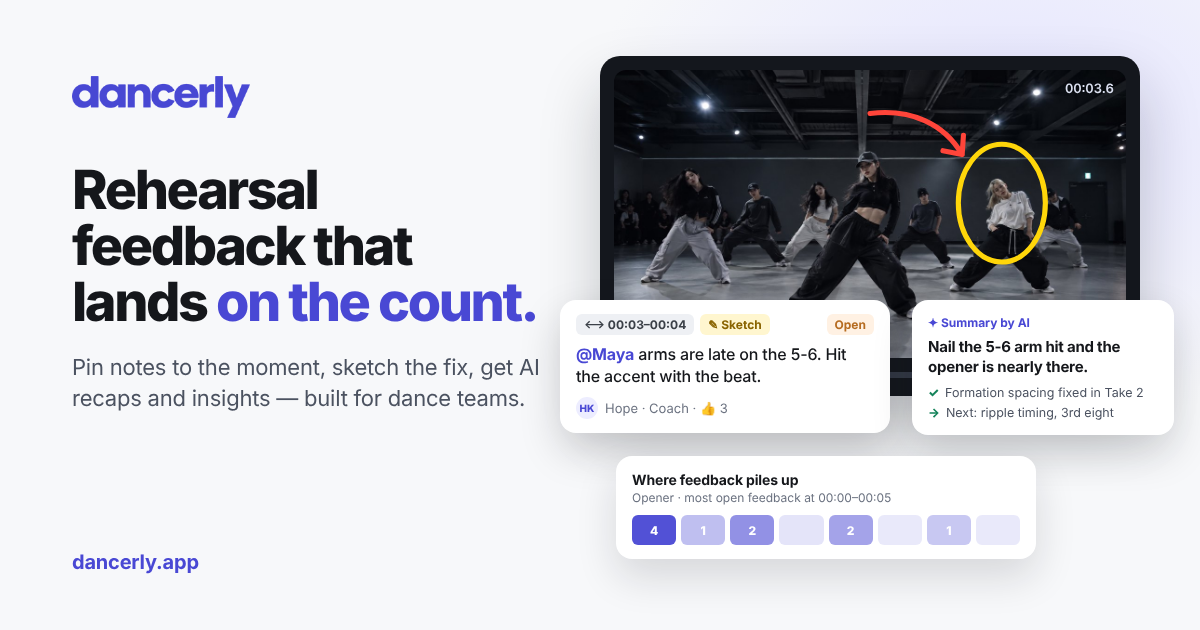
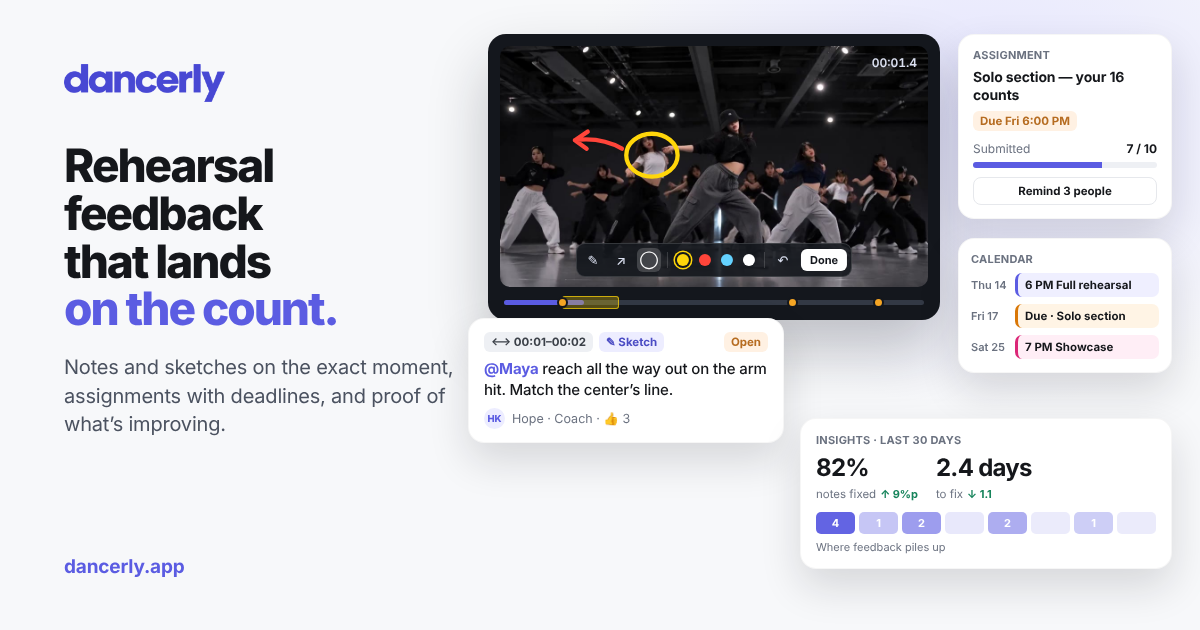
New link preview image
Rebuilt from the landing page's own pieces: the hero frame with its
sketch and the sketch toolbar, an @mention note, a video assignment with
a deadline and submissions, the calendar, and Insights. The image URL
carries ?v=2 so apps that cached the old preview fetch the new one.

Claude-Session: https://claude.ai/code/session_015xyiRtX2p9kfWQE4EdsAKz

diff --git a/tools/og/og.html b/tools/og/og.html
@@ -1,92 +1,133 @@
 <!doctype html>
-<!-- Link preview image (Open Graph, 1200×630). Render with: node tools/og/render.cjs -->
+<!-- Link preview image (Open Graph, 1200×630). Render with: node tools/og/render.cjs
+     The same pieces as the landing page: a frame with a sketch and the sketch toolbar, a note with an @mention,
+     a video assignment with a deadline, the calendar, and Insights. The frame is the hero clip at 00:01.4. -->
 <html lang="en">
 <head>
 <meta charset="utf-8" />
 <style>
-  :root { --ink: #15171b; --muted: #6b7280; --accent: #4948d4; --accent-soft: #ededff; --line: #e6e8ec; --dark: #14171d; --dark-2: #1d222a; --ok: #16845b; --warn: #b66c21; }
+  :root { --ink: #15171b; --muted: #6b7280; --accent: #5b5ce2; --accent-soft: #ededff; --line: #e6e8ec; --dark: #14171d; --dark-2: #1d222a; --ok: #16845b; --warn: #b66c21; }
   * { box-sizing: border-box; margin: 0; }
   body { width: 1200px; height: 630px; overflow: hidden; font-family: Inter, sans-serif; color: var(--ink); -webkit-font-smoothing: antialiased;
-    background: radial-gradient(60% 80% at 85% 20%, #e4e4ff 0%, rgba(228,228,255,0) 60%), #f7f8fa; position: relative; }
-  .copy { position: absolute; left: 72px; top: 76px; width: 470px; }
-  .logo { height: 42px; display: block; margin-bottom: 44px; }
-  h1 { font-size: 54px; line-height: 1.04; letter-spacing: -0.045em; font-weight: 800; }
+    background: radial-gradient(55% 75% at 82% 18%, #e4e4ff 0%, rgba(228,228,255,0) 62%), #f7f8fa; position: relative; }
+  .copy { position: absolute; left: 64px; top: 64px; width: 410px; }
+  .logo { height: 38px; display: block; margin-bottom: 40px; }
+  h1 { font-size: 46px; line-height: 1.04; letter-spacing: -0.045em; font-weight: 800; }
   h1 em { font-style: normal; color: var(--accent); }
-  .sub { margin-top: 22px; font-size: 22px; line-height: 1.4; color: #4b5260; letter-spacing: -0.01em; }
-  .url { position: absolute; left: 72px; bottom: 56px; font-size: 20px; font-weight: 650; color: var(--accent); letter-spacing: -0.01em; }
+  .sub { margin-top: 20px; font-size: 20px; line-height: 1.42; color: #4b5260; letter-spacing: -0.01em; }
+  .url { position: absolute; left: 64px; bottom: 52px; font-size: 19px; font-weight: 650; color: var(--accent); letter-spacing: -0.01em; }
 
-  /* Module 1: the review — a frame with a sketch, and a note with an @mention */
-  .review { position: absolute; left: 600px; top: 56px; width: 540px; background: var(--dark); border-radius: 20px; padding: 14px; box-shadow: 0 30px 60px rgba(20,23,29,.22); }
-  .frame { position: relative; border-radius: 12px; overflow: hidden; aspect-ratio: 16/9; }
+  .card { position: absolute; background: #fff; border-radius: 16px; box-shadow: 0 18px 40px rgba(20,23,29,.14); border: 1px solid rgba(20,23,29,.04); }
+  .k { font-size: 11px; font-weight: 700; letter-spacing: .02em; color: var(--muted); text-transform: uppercase; }
+  .chip { font-size: 11.5px; font-weight: 700; padding: 3px 7px; border-radius: 6px; background: #eef0f4; color: #3b4048; white-space: nowrap; }
+
+  /* Review: the frame, the sketch on it, and the sketch toolbar */
+  .review { position: absolute; left: 488px; top: 34px; width: 452px; background: var(--dark); border-radius: 18px; padding: 12px; box-shadow: 0 30px 60px rgba(20,23,29,.24); }
+  .frame { position: relative; border-radius: 10px; overflow: hidden; aspect-ratio: 16/9; }
   .frame img { width: 100%; height: 100%; object-fit: cover; display: block; }
-  .frame svg { position: absolute; inset: 0; }
-  .time { position: absolute; top: 10px; right: 12px; font-size: 13px; font-weight: 600; color: #dbe0f0; font-variant-numeric: tabular-nums; }
-  .track { position: relative; height: 6px; background: #333945; border-radius: 4px; margin: 14px 4px 4px; }
-  .track i { position: absolute; top: -2px; width: 10px; height: 10px; border-radius: 50%; background: #f5a524; }
-  .track .fill { position: absolute; inset: 0 auto 0 0; width: 18%; background: var(--accent); border-radius: 4px; }
-  .track .range { position: absolute; top: -4px; bottom: -4px; left: 16.8%; width: 5.6%; border-radius: 3px; background: rgba(255,214,10,.3); box-shadow: inset 0 0 0 1px rgba(255,214,10,.7); }
-  .note { position: absolute; left: 560px; top: 300px; width: 330px; background: #fff; border-radius: 16px; padding: 14px 16px; box-shadow: 0 18px 40px rgba(20,23,29,.18); }
-  .note-top { display: flex; gap: 6px; align-items: center; margin-bottom: 8px; }
-  .chip { font-size: 12px; font-weight: 700; padding: 3px 8px; border-radius: 6px; background: #eef0f4; color: #3b4048; }
-  .chip.sketch { background: #fff6cf; color: #8a6400; }
+  .frame svg { position: absolute; inset: 0; width: 100%; height: 100%; }
+  .sk { fill: none; stroke-width: 4; stroke-linecap: round; stroke-linejoin: round; }
+  .time { position: absolute; top: 9px; right: 11px; font-size: 12px; font-weight: 600; color: #dbe0f0; font-variant-numeric: tabular-nums; }
+  .skbar { position: absolute; left: 50%; bottom: 10px; transform: translateX(-50%); display: flex; align-items: center; gap: 4px; padding: 4px; border-radius: 9px; background: rgba(20,23,29,.9); border: 1px solid rgba(255,255,255,.14); }
+  .skbar b { width: 24px; height: 24px; display: grid; place-items: center; border-radius: 6px; color: #dbe0f0; font-size: 13px; font-weight: 500; }
+  .skbar b.on { background: rgba(255,255,255,.18); color: #fff; }
+  .skbar i { width: 12px; height: 12px; border-radius: 50%; background: var(--c); margin: 0 3px; }
+  .skbar i.on { box-shadow: 0 0 0 2px #14171d, 0 0 0 3.5px var(--c); }
+  .skbar u { width: 1px; height: 16px; background: rgba(255,255,255,.16); margin: 0 2px; }
+  .skbar em { font-style: normal; font-size: 11px; font-weight: 700; padding: 4px 9px; border-radius: 6px; background: #fff; color: var(--dark); margin-left: 2px; }
+  .track { position: relative; height: 5px; background: #333945; border-radius: 4px; margin: 13px 4px 3px; }
+  .track .fill { position: absolute; inset: 0 auto 0 0; width: 19%; background: var(--accent); border-radius: 4px; }
+  .track .range { position: absolute; top: -4px; bottom: -4px; left: 13.7%; width: 13.7%; border-radius: 3px; background: rgba(255,214,10,.28); box-shadow: inset 0 0 0 1px rgba(255,214,10,.7); }
+  .track i { position: absolute; top: -3px; width: 11px; height: 11px; margin-left: -5px; border-radius: 50%; background: #f5a524; border: 2px solid var(--dark); }
+
+  /* A note with an @mention and its sketch */
+  .note { left: 468px; top: 318px; width: 316px; padding: 13px 15px; }
+  .note-top { display: flex; gap: 6px; align-items: center; margin-bottom: 7px; }
+  .chip.sketch { background: #ededff; color: #4b4cc4; }
   .chip.status { margin-left: auto; background: #fff1e3; color: var(--warn); }
-  .note p { font-size: 16px; line-height: 1.4; font-weight: 500; letter-spacing: -0.01em; }
+  .note p { font-size: 15px; line-height: 1.38; font-weight: 500; letter-spacing: -0.01em; }
   .mention { color: var(--accent); font-weight: 700; }
-  .who { margin-top: 9px; display: flex; align-items: center; gap: 7px; font-size: 13px; color: var(--muted); }
-  .av { width: 22px; height: 22px; border-radius: 50%; background: var(--accent-soft); color: var(--accent); font-size: 10px; font-weight: 800; display: grid; place-items: center; }
+  .who { margin-top: 8px; display: flex; align-items: center; gap: 7px; font-size: 12.5px; color: var(--muted); }
+  .av { width: 21px; height: 21px; border-radius: 50%; background: var(--accent-soft); color: var(--accent); font-size: 9.5px; font-weight: 800; display: grid; place-items: center; }
 
-  /* Module 2: AI recap */
-  .recap { position: absolute; left: 912px; top: 300px; width: 262px; background: #fff; border-radius: 16px; padding: 15px 16px; box-shadow: 0 18px 40px rgba(20,23,29,.16); }
-  .ai { font-size: 12px; font-weight: 750; color: var(--accent); margin-bottom: 7px; }
-  .recap b { display: block; font-size: 15px; line-height: 1.3; letter-spacing: -0.015em; }
-  .recap ul { list-style: none; padding: 0; margin-top: 9px; display: grid; gap: 5px; }
-  .recap li { font-size: 12.5px; color: #4b5260; display: flex; gap: 6px; }
-  .recap li i { font-style: normal; color: var(--ok); font-weight: 800; }
+  /* A video assignment with a deadline */
+  .assign { left: 958px; top: 34px; width: 214px; padding: 13px 14px; }
+  .assign h4 { font-size: 14px; letter-spacing: -0.01em; margin: 6px 0 2px; line-height: 1.25; }
+  .due { display: inline-block; margin-top: 6px; font-size: 11.5px; font-weight: 700; padding: 3px 7px; border-radius: 6px; background: #fff1e3; color: var(--warn); }
+  .sub-row { display: flex; justify-content: space-between; font-size: 12px; color: var(--muted); margin-top: 10px; }
+  .sub-row b { color: var(--ink); }
+  .bar { height: 6px; border-radius: 4px; background: #eef0f4; margin-top: 6px; overflow: hidden; }
+  .bar span { display: block; height: 100%; width: 70%; background: var(--accent); }
+  .nudge { margin-top: 9px; font-size: 11.5px; font-weight: 700; text-align: center; padding: 6px; border-radius: 8px; border: 1px solid var(--line); }
 
-  /* Module 3: insights — where feedback piles up */
-  .insights { position: absolute; left: 616px; top: 456px; width: 420px; background: #fff; border-radius: 16px; padding: 15px 16px 14px; box-shadow: 0 18px 40px rgba(20,23,29,.14); }
-  .insights h3 { font-size: 14px; letter-spacing: -0.01em; }
-  .insights small { display: block; font-size: 12px; color: var(--muted); margin-top: 2px; }
-  .heat { display: grid; grid-template-columns: repeat(8, 1fr); gap: 5px; margin-top: 10px; }
-  .heat span { height: 30px; border-radius: 6px; background: rgba(73,72,212,var(--o)); color: #fff; font-size: 12px; font-weight: 800; display: grid; place-items: center; }
+  /* The calendar */
+  .cal { left: 958px; top: 238px; width: 214px; padding: 13px 12px; }
+  .ev { display: grid; grid-template-columns: 38px 1fr; gap: 6px; align-items: center; margin-top: 7px; font-size: 11.5px; }
+  .ev small { color: var(--muted); font-size: 11px; font-weight: 600; }
+  .ev span { padding: 5px 7px; border-radius: 7px; border-left: 3px solid var(--c); background: var(--b); font-weight: 650; white-space: nowrap; overflow: hidden; text-overflow: ellipsis; }
+
+  /* Insights */
+  .ins { left: 800px; top: 418px; width: 372px; padding: 14px 15px; }
+  .ins-top { display: flex; gap: 18px; margin-top: 6px; }
+  .stat b { display: block; font-size: 24px; letter-spacing: -0.03em; }
+  .stat small { font-size: 11.5px; color: var(--muted); }
+  .stat em { font-style: normal; font-size: 11px; font-weight: 700; color: var(--ok); margin-left: 4px; }
+  .heat { display: grid; grid-template-columns: repeat(8, 1fr); gap: 4px; margin-top: 10px; }
+  .heat span { height: 22px; border-radius: 5px; background: rgba(91,92,226,var(--o)); color: #fff; font-size: 11px; font-weight: 700; display: grid; place-items: center; }
+  .heat-cap { font-size: 11px; color: var(--muted); margin-top: 6px; }
 </style>
 </head>
 <body>
   <div class="copy">
     <img class="logo" src="../../logo-wordmark.png" alt="dancerly" />
-    <h1>Rehearsal feedback that lands <em>on the count.</em></h1>
-    <p class="sub">Pin notes to the moment, sketch the fix, get AI recaps and insights — built for dance teams.</p>
+    <h1>Rehearsal feedback<br />that lands<br /><em>on the count.</em></h1>
+    <p class="sub">Notes and sketches on the exact moment, assignments with deadlines, and proof of what’s improving.</p>
   </div>
   <p class="url">dancerly.app</p>
 
   <div class="review">
     <div class="frame">
       <img src="demo-frame.jpg" alt="" />
-      <svg viewBox="0 0 400 225" preserveAspectRatio="none">
-        <ellipse cx="303" cy="104" rx="34" ry="46" fill="none" stroke="#ffd60a" stroke-width="4" />
-        <path d="M200 34 C232 30 258 42 272 66 M272 66 L257 63 M272 66 L273 51" fill="none" stroke="#ff453a" stroke-width="4" stroke-linecap="round" stroke-linejoin="round" />
+      <svg viewBox="0 0 400 225" preserveAspectRatio="xMidYMid slice" aria-hidden="true">
+        <ellipse class="sk" stroke="#ffd60a" cx="142" cy="102" rx="24" ry="20" />
+        <path class="sk" stroke="#ff453a" d="M114 96 C100 88 86 86 70 88 M70 88 L82 80 M70 88 L81 96" />
       </svg>
-      <span class="time">00:03.6</span>
+      <span class="time">00:01.4</span>
+      <div class="skbar"><b>✎</b><b>↗</b><b class="on">◯</b><u></u><i class="on" style="--c:#ffd60a"></i><i style="--c:#ff453a"></i><i style="--c:#64d2ff"></i><i style="--c:#ffffff"></i><u></u><b>↶</b><em>Done</em></div>
     </div>
-    <div class="track"><span class="fill"></span><span class="range"></span><i style="left:5%"></i><i style="left:41%"></i><i style="left:70%"></i></div>
+    <div class="track"><span class="fill"></span><span class="range"></span><i style="left:13.7%"></i><i style="left:68.5%"></i><i style="left:89%"></i></div>
   </div>
 
-  <div class="note">
-    <div class="note-top"><span class="chip">⟷ 00:03–00:04</span><span class="chip sketch">✎ Sketch</span><span class="chip status">Open</span></div>
-    <p><span class="mention">@Maya</span> arms are late on the 5-6. Hit the accent with the beat.</p>
+  <div class="card note">
+    <div class="note-top"><span class="chip">⟷ 00:01–00:02</span><span class="chip sketch">✎ Sketch</span><span class="chip status">Open</span></div>
+    <p><span class="mention">@Maya</span> reach all the way out on the arm hit. Match the center’s line.</p>
     <div class="who"><span class="av">HK</span>Hope · Coach · 👍 3</div>
   </div>
 
-  <div class="recap">
-    <p class="ai">✦ Summary by AI</p>
-    <b>Nail the 5-6 arm hit and the opener is nearly there.</b>
-    <ul><li><i>✓</i>Formation spacing fixed in Take 2</li><li><i>→</i>Next: ripple timing, 3rd eight</li></ul>
+  <div class="card assign">
+    <p class="k">Assignment</p>
+    <h4>Solo section — your 16 counts</h4>
+    <span class="due">Due Fri 6:00 PM</span>
+    <div class="sub-row"><span>Submitted</span><b>7 / 10</b></div>
+    <div class="bar"><span></span></div>
+    <div class="nudge">Remind 3 people</div>
   </div>
 
-  <div class="insights">
-    <h3>Where feedback piles up</h3>
-    <small>Opener · most open feedback at 00:00–00:05</small>
-    <div class="heat"><span style="--o:.95">4</span><span style="--o:.35">1</span><span style="--o:.6">2</span><span style="--o:.15"></span><span style="--o:.5">2</span><span style="--o:.12"></span><span style="--o:.3">1</span><span style="--o:.12"></span></div>
+  <div class="card cal">
+    <p class="k">Calendar</p>
+    <div class="ev"><small>Thu 14</small><span style="--c:#5b5ce2;--b:#efefff">6 PM Full rehearsal</span></div>
+    <div class="ev"><small>Fri 17</small><span style="--c:#d97706;--b:#fff4e5">Due · Solo section</span></div>
+    <div class="ev"><small>Sat 25</small><span style="--c:#db2777;--b:#ffeef6">7 PM Showcase</span></div>
+  </div>
+
+  <div class="card ins">
+    <p class="k">Insights · last 30 days</p>
+    <div class="ins-top">
+      <div class="stat"><b>82%</b><small>notes fixed</small><em>↑ 9%p</em></div>
+      <div class="stat"><b>2.4 days</b><small>to fix</small><em>↓ 1.1</em></div>
+    </div>
+    <div class="heat"><span style="--o:.95">4</span><span style="--o:.35">1</span><span style="--o:.6">2</span><span style="--o:.14"></span><span style="--o:.5">2</span><span style="--o:.12"></span><span style="--o:.3">1</span><span style="--o:.12"></span></div>
+    <p class="heat-cap">Where feedback piles up</p>
   </div>
 </body>
 </html>

diff --git a/index.html b/index.html
@@ -12,19 +12,19 @@
     <meta property="og:description" content="Every dancer deserves to see their progress. Rehearsal video review for dance teams: notes on the exact moment, and every fix showing up in the next take." />
     <meta property="og:url" content="https://dancerly.app/" />
     <link rel="canonical" href="https://dancerly.app/" />
-    <script type="application/ld+json">{"@context":"https://schema.org","@graph":[{"@type":"Organization","@id":"https://dancerly.app/#org","name":"dancerly","url":"https://dancerly.app/","logo":{"@type":"ImageObject","url":"https://dancerly.app/icon-512.png","width":512,"height":512},"email":"help@dancerly.app","contactPoint":{"@type":"ContactPoint","contactType":"customer support","email":"help@dancerly.app","availableLanguage":["English","Korean"]}},{"@type":"WebSite","@id":"https://dancerly.app/#website","url":"https://dancerly.app/","name":"dancerly","description":"Rehearsal video feedback for dance teams.","inLanguage":["en","ko"],"publisher":{"@id":"https://dancerly.app/#org"}},{"@type":"WebPage","@id":"https://dancerly.app/#webpage","url":"https://dancerly.app/","name":"dancerly: Rehearsal video feedback for dance teams","isPartOf":{"@id":"https://dancerly.app/#website"},"about":{"@id":"https://dancerly.app/#app"},"primaryImageOfPage":"https://dancerly.app/og-image.png","inLanguage":"en"},{"@type":"WebApplication","@id":"https://dancerly.app/#app","name":"dancerly","url":"https://dancerly.app/","applicationCategory":"MultimediaApplication","applicationSubCategory":"Dance rehearsal video review","operatingSystem":"Web browser (iOS, Android, Windows, macOS)","browserRequirements":"Requires a modern web browser. No app to install.","description":"dancerly is where dance teams review rehearsal and practice videos together. Pin notes and sketches to the exact moment or count, loop and mirror the part that needs work, track fixes take by take, and get AI recaps that cite the notes they came from.","image":"https://dancerly.app/og-image.png","screenshot":"https://dancerly.app/og-image.png","inLanguage":["en","ko"],"audience":{"@type":"Audience","audienceType":"Dance teams, crews, K-pop cover teams, dancers, coaches, and dance studios"},"featureList":["Timestamped notes on a moment or a range of counts","Sketches drawn on the video frame","Loop, half-speed, and mirror mode for practice","Takes that carry open notes forward and track what got fixed","Private notes between a coach and one dancer","AI recaps that cite the notes they are based on","Video assignments with deadlines, a team calendar, and a count sheet","Insights on fix rate, time to fix, and where feedback piles up","On-device video compression and resumable uploads"],"offers":[{"@type":"Offer","name":"Free","price":"0","priceCurrency":"USD","url":"https://dancerly.app/#pricing","description":"1 team, up to 10 members, unlimited videos and takes, 2 GB storage, 3 AI recaps a month per person, and basic Insights. No time limit."},{"@type":"Offer","name":"Team (monthly)","price":"12","priceCurrency":"USD","url":"https://dancerly.app/#pricing","priceSpecification":{"@type":"UnitPriceSpecification","price":"12","priceCurrency":"USD","billingDuration":"P1M","unitText":"month"},"description":"Up to 3 teams and 40 members, unlimited videos and takes, 20 GB storage, unlimited AI recaps, and full-history Insights."},{"@type":"Offer","name":"Team (yearly)","price":"120","priceCurrency":"USD","url":"https://dancerly.app/#pricing","priceSpecification":{"@type":"UnitPriceSpecification","price":"120","priceCurrency":"USD","billingDuration":"P1Y","unitText":"year"},"description":"Up to 3 teams and 40 members, unlimited videos and takes, 20 GB storage, unlimited AI recaps, and full-history Insights."},{"@type":"Offer","name":"Studio (monthly)","price":"29","priceCurrency":"USD","url":"https://dancerly.app/#pricing","priceSpecification":{"@type":"UnitPriceSpecification","price":"29","priceCurrency":"USD","billingDuration":"P1M","unitText":"month"},"description":"Unlimited teams and members, unlimited videos and takes, 100 GB storage, unlimited AI recaps, and full-history Insights."},{"@type":"Offer","name":"Studio (yearly)","price":"290","priceCurrency":"USD","url":"https://dancerly.app/#pricing","priceSpecification":{"@type":"UnitPriceSpecification","price":"290","priceCurrency":"USD","billingDuration":"P1Y","unitText":"year"},"description":"Unlimited teams and members, unlimited videos and takes, 100 GB storage, unlimited AI recaps, and full-history Insights."}],"publisher":{"@id":"https://dancerly.app/#org"}},{"@type":"FAQPage","@id":"https://dancerly.app/#faq","isPartOf":{"@id":"https://dancerly.app/#webpage"},"mainEntity":[{"@type":"Question","name":"Do dancers need to download an app?","acceptedAnswer":{"@type":"Answer","text":"No. dancerly runs in the browser on any phone, tablet, or laptop. Share an invite link and they’re in."}},{"@type":"Question","name":"What about big iPhone videos?","acceptedAnswer":{"@type":"Answer","text":"Videos are compressed on your phone before upload, so even long 4K clips go up quickly. If the connection drops, the upload continues where it stopped. Just pick the same file again."}},{"@type":"Question","name":"Who can see our videos?","acceptedAnswer":{"@type":"Answer","text":"Only people in your project. Private notes are visible to just two people. You can make a read-only guest link for a single video, and it expires automatically."}},{"@type":"Question","name":"How do AI recaps work?","acceptedAnswer":{"@type":"Answer","text":"A recap summarizes the notes your team already wrote. Every line links to the notes it’s based on, and anything without a source is left out. Private notes never go into a team recap."}},{"@type":"Question","name":"Does it work for K-pop dance covers?","acceptedAnswer":{"@type":"Answer","text":"Yes. Upload each practice video as a take, pin notes on the counts where you drift from the original, and compare takes side by side until it’s ready to film."}},{"@type":"Question","name":"Can coaches give feedback to one student?","acceptedAnswer":{"@type":"Answer","text":"Yes. Choose “Only [name]” when you pin a note, and only you and that student can see it and its replies."}},{"@type":"Question","name":"What happens if we run out of storage?","acceptedAnswer":{"@type":"Answer","text":"Nothing is deleted. New uploads pause until you remove old takes or upgrade. Videos are compressed on your phone before upload, so storage goes a long way."}},{"@type":"Question","name":"Can we delete everything later?","acceptedAnswer":{"@type":"Answer","text":"Yes. Owners can delete videos or whole projects at any time, and you can leave a project whenever you like."}}]}]}</script>
+    <script type="application/ld+json">{"@context":"https://schema.org","@graph":[{"@type":"Organization","@id":"https://dancerly.app/#org","name":"dancerly","url":"https://dancerly.app/","logo":{"@type":"ImageObject","url":"https://dancerly.app/icon-512.png","width":512,"height":512},"email":"help@dancerly.app","contactPoint":{"@type":"ContactPoint","contactType":"customer support","email":"help@dancerly.app","availableLanguage":["English","Korean"]}},{"@type":"WebSite","@id":"https://dancerly.app/#website","url":"https://dancerly.app/","name":"dancerly","description":"Rehearsal video feedback for dance teams.","inLanguage":["en","ko"],"publisher":{"@id":"https://dancerly.app/#org"}},{"@type":"WebPage","@id":"https://dancerly.app/#webpage","url":"https://dancerly.app/","name":"dancerly: Rehearsal video feedback for dance teams","isPartOf":{"@id":"https://dancerly.app/#website"},"about":{"@id":"https://dancerly.app/#app"},"primaryImageOfPage":"https://dancerly.app/og-image.png?v=2","inLanguage":"en"},{"@type":"WebApplication","@id":"https://dancerly.app/#app","name":"dancerly","url":"https://dancerly.app/","applicationCategory":"MultimediaApplication","applicationSubCategory":"Dance rehearsal video review","operatingSystem":"Web browser (iOS, Android, Windows, macOS)","browserRequirements":"Requires a modern web browser. No app to install.","description":"dancerly is where dance teams review rehearsal and practice videos together. Pin notes and sketches to the exact moment or count, loop and mirror the part that needs work, track fixes take by take, and get AI recaps that cite the notes they came from.","image":"https://dancerly.app/og-image.png?v=2","screenshot":"https://dancerly.app/og-image.png?v=2","inLanguage":["en","ko"],"audience":{"@type":"Audience","audienceType":"Dance teams, crews, K-pop cover teams, dancers, coaches, and dance studios"},"featureList":["Timestamped notes on a moment or a range of counts","Sketches drawn on the video frame","Loop, half-speed, and mirror mode for practice","Takes that carry open notes forward and track what got fixed","Private notes between a coach and one dancer","AI recaps that cite the notes they are based on","Video assignments with deadlines, a team calendar, and a count sheet","Insights on fix rate, time to fix, and where feedback piles up","On-device video compression and resumable uploads"],"offers":[{"@type":"Offer","name":"Free","price":"0","priceCurrency":"USD","url":"https://dancerly.app/#pricing","description":"1 team, up to 10 members, unlimited videos and takes, 2 GB storage, 3 AI recaps a month per person, and basic Insights. No time limit."},{"@type":"Offer","name":"Team (monthly)","price":"12","priceCurrency":"USD","url":"https://dancerly.app/#pricing","priceSpecification":{"@type":"UnitPriceSpecification","price":"12","priceCurrency":"USD","billingDuration":"P1M","unitText":"month"},"description":"Up to 3 teams and 40 members, unlimited videos and takes, 20 GB storage, unlimited AI recaps, and full-history Insights."},{"@type":"Offer","name":"Team (yearly)","price":"120","priceCurrency":"USD","url":"https://dancerly.app/#pricing","priceSpecification":{"@type":"UnitPriceSpecification","price":"120","priceCurrency":"USD","billingDuration":"P1Y","unitText":"year"},"description":"Up to 3 teams and 40 members, unlimited videos and takes, 20 GB storage, unlimited AI recaps, and full-history Insights."},{"@type":"Offer","name":"Studio (monthly)","price":"29","priceCurrency":"USD","url":"https://dancerly.app/#pricing","priceSpecification":{"@type":"UnitPriceSpecification","price":"29","priceCurrency":"USD","billingDuration":"P1M","unitText":"month"},"description":"Unlimited teams and members, unlimited videos and takes, 100 GB storage, unlimited AI recaps, and full-history Insights."},{"@type":"Offer","name":"Studio (yearly)","price":"290","priceCurrency":"USD","url":"https://dancerly.app/#pricing","priceSpecification":{"@type":"UnitPriceSpecification","price":"290","priceCurrency":"USD","billingDuration":"P1Y","unitText":"year"},"description":"Unlimited teams and members, unlimited videos and takes, 100 GB storage, unlimited AI recaps, and full-history Insights."}],"publisher":{"@id":"https://dancerly.app/#org"}},{"@type":"FAQPage","@id":"https://dancerly.app/#faq","isPartOf":{"@id":"https://dancerly.app/#webpage"},"mainEntity":[{"@type":"Question","name":"Do dancers need to download an app?","acceptedAnswer":{"@type":"Answer","text":"No. dancerly runs in the browser on any phone, tablet, or laptop. Share an invite link and they’re in."}},{"@type":"Question","name":"What about big iPhone videos?","acceptedAnswer":{"@type":"Answer","text":"Videos are compressed on your phone before upload, so even long 4K clips go up quickly. If the connection drops, the upload continues where it stopped. Just pick the same file again."}},{"@type":"Question","name":"Who can see our videos?","acceptedAnswer":{"@type":"Answer","text":"Only people in your project. Private notes are visible to just two people. You can make a read-only guest link for a single video, and it expires automatically."}},{"@type":"Question","name":"How do AI recaps work?","acceptedAnswer":{"@type":"Answer","text":"A recap summarizes the notes your team already wrote. Every line links to the notes it’s based on, and anything without a source is left out. Private notes never go into a team recap."}},{"@type":"Question","name":"Does it work for K-pop dance covers?","acceptedAnswer":{"@type":"Answer","text":"Yes. Upload each practice video as a take, pin notes on the counts where you drift from the original, and compare takes side by side until it’s ready to film."}},{"@type":"Question","name":"Can coaches give feedback to one student?","acceptedAnswer":{"@type":"Answer","text":"Yes. Choose “Only [name]” when you pin a note, and only you and that student can see it and its replies."}},{"@type":"Question","name":"What happens if we run out of storage?","acceptedAnswer":{"@type":"Answer","text":"Nothing is deleted. New uploads pause until you remove old takes or upgrade. Videos are compressed on your phone before upload, so storage goes a long way."}},{"@type":"Question","name":"Can we delete everything later?","acceptedAnswer":{"@type":"Answer","text":"Yes. Owners can delete videos or whole projects at any time, and you can leave a project whenever you like."}}]}]}</script>
     <meta property="og:site_name" content="dancerly" />
     <meta property="og:locale" content="en_US" />
     <meta property="og:locale:alternate" content="ko_KR" />
-    <meta property="og:image" content="https://dancerly.app/og-image.png" />
+    <meta property="og:image" content="https://dancerly.app/og-image.png?v=2" />
     <meta property="og:image:width" content="1200" />
     <meta property="og:image:height" content="630" />
-    <meta property="og:image:alt" content="dancerly: a rehearsal video with a sketch and an @mention note, an AI summary, and a heatmap of where feedback piles up" />
+    <meta property="og:image:alt" content="dancerly: a rehearsal video with a sketch and the sketch toolbar, an @mention note, a video assignment with a deadline, the team calendar, and Insights" />
     <meta name="twitter:card" content="summary_large_image" />
     <meta name="twitter:title" content="dancerly — Feedback that lands on the count" />
     <meta name="twitter:description" content="Every dancer deserves to see their progress. Rehearsal video review for dance teams: notes on the exact moment, and every fix showing up in the next take." />
-    <meta name="twitter:image:alt" content="dancerly: a rehearsal video with a sketch and an @mention note, an AI summary, and a heatmap of where feedback piles up" />
-    <meta name="twitter:image" content="https://dancerly.app/og-image.png" />
+    <meta name="twitter:image:alt" content="dancerly: a rehearsal video with a sketch and the sketch toolbar, an @mention note, a video assignment with a deadline, the team calendar, and Insights" />
+    <meta name="twitter:image" content="https://dancerly.app/og-image.png?v=2" />
     <link rel="icon" href="/favicon.png" type="image/png" />
     <link rel="apple-touch-icon" href="/apple-touch-icon.png" />
     <link rel="manifest" href="/site.webmanifest" />

diff --git a/app/index.html b/app/index.html
@@ -12,12 +12,12 @@
     <meta property="og:title" content="dancerly — rehearsal feedback for dance teams" />
     <meta property="og:description" content="Join your team on dancerly. Pin notes to the exact moment, loop the part, and watch every correction show up in the next take." />
     <meta property="og:site_name" content="dancerly" />
-    <meta property="og:image" content="https://dancerly.app/og-image.png" />
+    <meta property="og:image" content="https://dancerly.app/og-image.png?v=2" />
     <meta property="og:image:width" content="1200" />
     <meta property="og:image:height" content="630" />
-    <meta property="og:image:alt" content="dancerly: a rehearsal video with a sketch and an @mention note, an AI summary, and a heatmap of where feedback piles up" />
+    <meta property="og:image:alt" content="dancerly: a rehearsal video with a sketch and the sketch toolbar, an @mention note, a video assignment with a deadline, the team calendar, and Insights" />
     <meta name="twitter:card" content="summary_large_image" />
-    <meta name="twitter:image" content="https://dancerly.app/og-image.png" />
+    <meta name="twitter:image" content="https://dancerly.app/og-image.png?v=2" />
     <link rel="icon" href="/favicon.png" type="image/png" />
     <link rel="apple-touch-icon" href="/apple-touch-icon.png" />
     <link rel="manifest" href="/site.webmanifest" />

diff --git a/terms.html b/terms.html
@@ -10,7 +10,7 @@
   <link rel="canonical" href="https://dancerly.app/terms" />
   <meta property="og:title" content="Terms of Service · dancerly" />
   <meta property="og:url" content="https://dancerly.app/terms" />
-  <meta property="og:image" content="https://dancerly.app/og-image.png" />
+  <meta property="og:image" content="https://dancerly.app/og-image.png?v=2" />
   <meta property="og:type" content="website" />
   <meta property="og:site_name" content="dancerly" />
   <meta property="og:description" content="The terms for using dancerly, the rehearsal video feedback app for dance teams: accounts, your content, plans, and how to reach us." />

diff --git a/privacy.html b/privacy.html
@@ -10,7 +10,7 @@
   <link rel="canonical" href="https://dancerly.app/privacy" />
   <meta property="og:title" content="Privacy Policy · dancerly" />
   <meta property="og:url" content="https://dancerly.app/privacy" />
-  <meta property="og:image" content="https://dancerly.app/og-image.png" />
+  <meta property="og:image" content="https://dancerly.app/og-image.png?v=2" />
   <meta property="og:type" content="website" />
   <meta property="og:site_name" content="dancerly" />
   <meta property="og:description" content="How dancerly collects, uses, and protects personal information, including rehearsal videos, notes, and usage events." />
